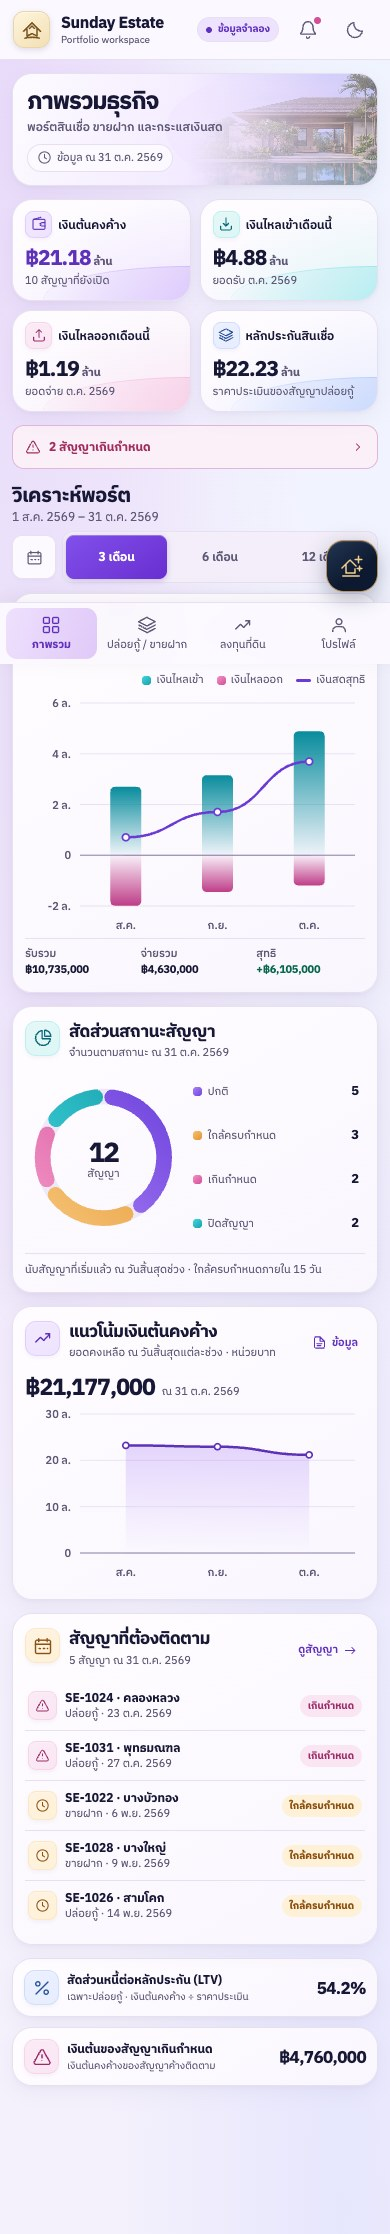
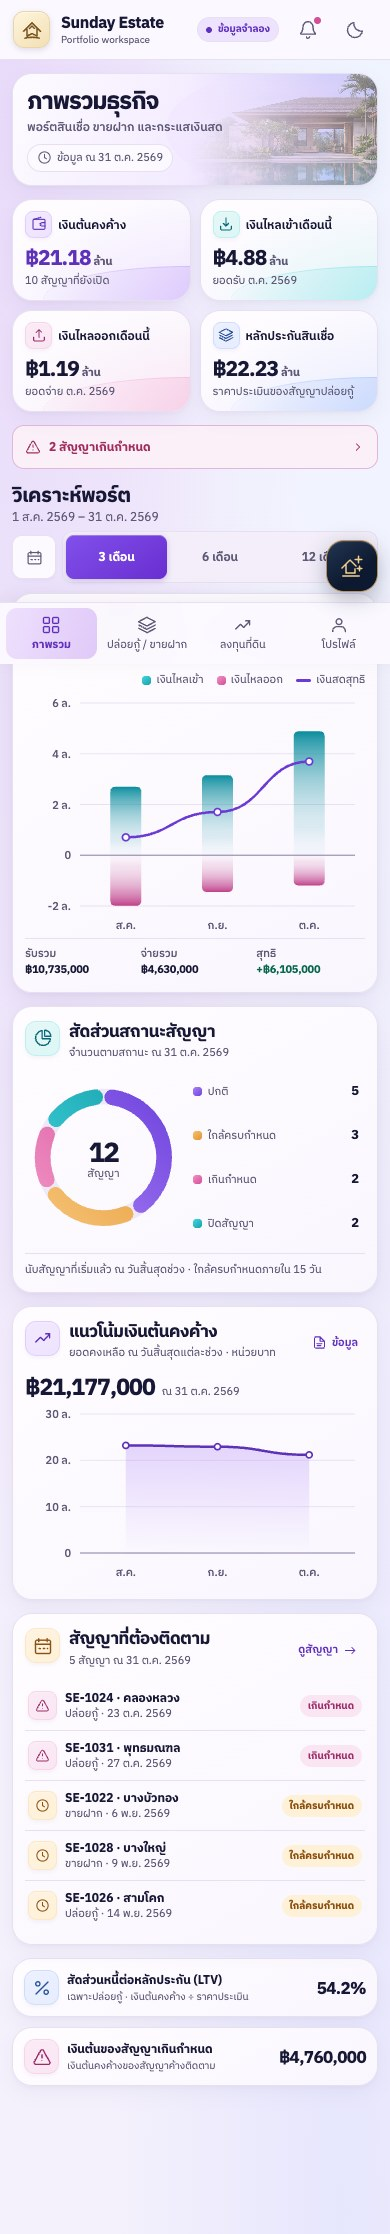
Extend the transparent range on cashflow bars

Changed region(s): [[0.7385, 0.3089, 0.8308, 0.4015], [0.4923, 0.3397, 0.6154, 0.4015], [0.2769, 0.3397, 0.3692, 0.4015]]

diff --git a/preview/aurora-demo/v2/evidence/index.html b/preview/aurora-demo/v2/evidence/index.html
@@ -4,7 +4,7 @@
   <meta charset="utf-8">
   <meta name="viewport" content="width=device-width, initial-scale=1">
   <meta name="color-scheme" content="light dark">
-  <title>ภาพหน้าจอ Sunday Estate Aurora V2.5</title>
+  <title>ภาพหน้าจอ Sunday Estate Aurora V2.6</title>
   <style>
     body{max-width:1000px;margin:auto;padding:1.25rem;font:1rem/1.65 system-ui,sans-serif}
     h1{font-size:clamp(1.5rem,5vw,2.3rem)}
@@ -16,7 +16,7 @@
 </head>
 <body>
   <a href="../">กลับไปเดโม</a>
-  <h1>ภาพหน้าจอ Aurora V2.5</h1>
+  <h1>ภาพหน้าจอ Aurora V2.6</h1>
   <p>ภาพจากเดโม GitHub Pages ในเบราว์เซอร์ที่ความกว้าง 390 และ 1440 พิกเซล แตะภาพเพื่อเปิดขนาดเต็ม</p>
   <main>
     <figure><a href="cashflow-mobile-light.jpg"><img src="cashflow-mobile-light.jpg" alt="กราฟกระแสเงินสดธีมสว่าง แท่งโปร่งแสงใกล้เส้นศูนย์และทึบที่ปลาย"></a><figcaption>ไล่สีแท่งกระแสเงินสด · สว่าง</figcaption></figure>

diff --git a/preview/aurora-demo/v2/charts.js b/preview/aurora-demo/v2/charts.js
@@ -2,8 +2,13 @@ window.EstateCharts = (() => {
   const d = window.EstateData;
   const label = {income: 'เงินไหลเข้า', expense: 'เงินไหลออก', net: 'เงินสดสุทธิ', balance: 'เงินต้นคงค้าง'};
   const tones = {income: 'cyan', expense: 'pink', net: 'purple', balance: 'purple'};
-  const barStops = Array.from({length:20}, (_,index) =>
-    '<stop offset="' + (index * 100 / 19).toFixed(3) + '%" stop-opacity="' + ((index + 1) * 5 / 100) + '"/>'
+  // Each pair gives the distance from zero and the transparency at that point.
+  const barStops = [
+    [0, 97], [10, 95], [22, 87], [30, 85], [38, 80], [45, 75], [51, 70],
+    [57, 65], [62, 60], [66, 55], [70, 50], [74, 45], [78, 40], [82, 35],
+    [85, 30], [88, 25], [91, 20], [94, 15], [96, 10], [98, 5], [100, 0],
+  ].map(([offset, transparency]) =>
+    '<stop offset="' + offset + '%" stop-opacity="' + (100 - transparency) / 100 + '"/>'
   ).join('');
   const amount = (n, key) => (n < 0 ? '−' : key === 'net' && n > 0 ? '+' : '') + d.baht(Math.abs(n));
   const legendMark = (tone, line = false) => '<i class="swatch ' + tone + (line ? ' line' : '') + '" aria-hidden="true"></i>';

diff --git a/preview/aurora-demo/v2/index.html b/preview/aurora-demo/v2/index.html
@@ -8,7 +8,7 @@
   <link rel="icon" type="image/png" href="assets/icon.png">
   <link rel="stylesheet" href="styles.css?v=2.5">
   <script defer src="data.js"></script>
-  <script defer src="charts.js?v=2.5"></script>
+  <script defer src="charts.js?v=2.6"></script>
   <link rel="stylesheet" href="experience.css?v=2.4">
   <script defer src="scenes.js?v=2.4"></script>
   <script defer src="investment.js?v=2.2"></script>
